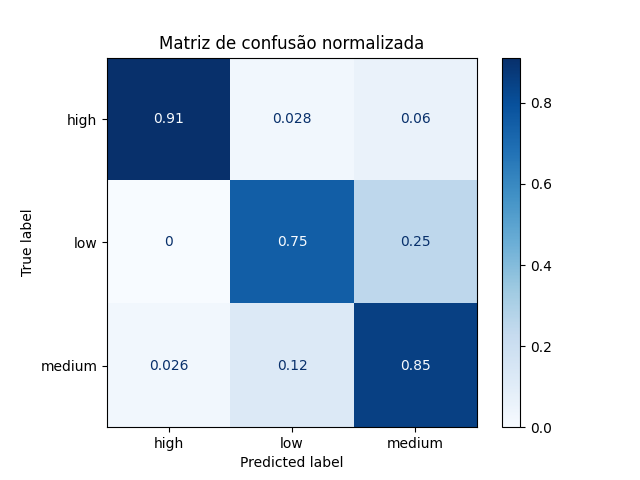
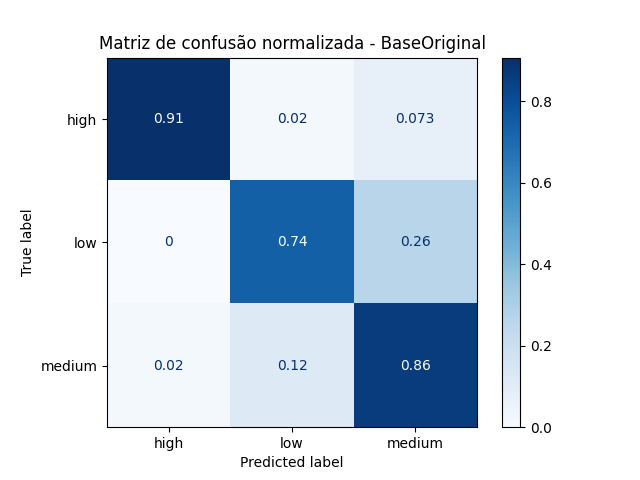
update

diff --git a/src/check_point3.py b/src/check_point3.py
@@ -41,6 +41,7 @@ from sklearn.feature_selection import SelectFromModel
 from pprint import pprint
 from pre_processing.base import BaseReduction
 from sklearn.metrics import plot_confusion_matrix
+from sklearn import tree
 
 class Supervisioned:
 
@@ -93,7 +94,91 @@ class Supervisioned:
             'BaseReduzida3': self.BaseReduzida3
         }
 
-        self.kNN()
+        #self.kNN()
+        self.ad()
+
+
+
+    def ad(self):
+        print('----------------------------------------------------------')
+        print('Início Experimento AD - 10-fold cross validation. P-> Com Poda')
+        skf = StratifiedKFold(n_splits=10)
+        
+        adParameters = []
+
+        adParameters.append((f'AD', DecisionTreeClassifier()))
+        adParameters.append((f'AD-Poda', DecisionTreeClassifier(ccp_alpha=0.01)))
+        #adParameters.append((f'AD-Poda2', DecisionTreeClassifier(ccp_alpha=0.2)))
+
+        results = {}
+        for base in self.bases:
+            print('----------------')
+            print(base, 'cross_val_score treinamento')
+            print('---------------')
+            dataset = self.bases[base]
+            feature_names = ['Speed', 'Operatorname', 'CellID', 
+				'RSRP', 'RSRQ', 'SNR', 'RSSI', 'State', 
+				'ServingCell_Distance', 'CQI']
+            class_names = ['high', 'low', 'medium']
+            array = dataset.values
+            arrLen = len(dataset.columns) - 1
+            X = array[:,0:arrLen]
+            y = array[:,arrLen]
+            results[base] = {}
+            X_train, X_test, Y_train, Y_test = train_test_split(X, y, test_size=0.20, random_state=50)
+            score = []
+            score2 = []
+            names = []
+
+            for name, model in adParameters:
+
+                cv_results = cross_val_score(model, X_train, Y_train, cv=skf, scoring='accuracy')
+                results[base][name] = {}
+                results[base][name]['mean'] = cv_results.mean()
+                results[base][name]['std'] = cv_results.std()
+                print('%s: %f (%f)' % (name, cv_results.mean(), cv_results.std()))
+                mean = results[base][name]['mean']
+                score.append(mean)
+                names.append(name)
+                score2.append(cv_results)
+            
+            sortArr = sorted(score, reverse=True)
+            fig = pyplot.figure()
+            ax = fig.add_subplot(111)
+            bp = ax.boxplot(score2, labels=names)
+            ax.set_title(f'10-fold Cross-Validation AD {base}') 
+            fig.savefig(f'figs/ad/{base}-ad.png')
+            bestValue = sortArr[0]
+
+            for name, model in adParameters:
+                #mean = results[base][name]['mean']
+                #if mean == bestValue:
+                print(f'{name} {base} com score médio de {bestValue}.')
+                clf = model.fit(X_train, Y_train)
+                predictions = model.predict(X_test)
+                fig2 = pyplot.figure(figsize=(25,20)) 
+                _ = tree.plot_tree(clf, feature_names=feature_names,  class_names=class_names, filled=True)
+                fig2.savefig(f'figs/ad/decision-tree-{base}-{name}')
+                # Evaluate predictions
+                print('Acurácia de predição:', accuracy_score(Y_test, predictions))
+                print('Matriz de confusão:')
+                print(confusion_matrix(Y_test, predictions))
+                print('Report de classificação:')
+                print(classification_report(Y_test, predictions))#, zero_division=1))
+                # Plot non-normalized confusion matrix
+                titles_options = [("Matriz de confusão sem normalização", None), ("Matriz de confusão normalizada", 'true')]
+                class_names = ['high', 'low', 'medium']
+                for title, normalize in titles_options:
+                    disp = plot_confusion_matrix(clf, X_test, Y_test, 
+                                                    display_labels=class_names, 
+                                                    cmap=pyplot.cm.Blues, 
+                                                    normalize=normalize)
+                    disp.ax_.set_title(f'{title} - {base}')
+                    disp.figure_.savefig(f'figs/ad/cm-{base}-{normalize}-{name}.png')
+                    #fig.savefig(f'figs/knn/confusion-matrix-{normalize}.png')
+
+
+
 
     def kNN(self):
         print('----------------------------------------------------------')
@@ -101,7 +186,7 @@ class Supervisioned:
         skf = StratifiedKFold(n_splits=10)
         
         knnParameters = []
-        kVar = [1, 3, 5]
+        kVar = [1, 3, 5, 7, 9, 11, 13]
         for i in kVar:
             knnParameters.append((f'kNN-{i}', KNeighborsClassifier(n_neighbors=i)))
             knnParameters.append((f'kNN-{i}-W', KNeighborsClassifier(n_neighbors=i, weights='distance')))
@@ -145,7 +230,6 @@ class Supervisioned:
             fig.savefig(f'figs/knn/{base}-kNN.png')
             bestValue = sortArr[0]
             #print(f'{base}: {bestValue} -- {sortArr}')
-            print(score2)
             for name, model in knnParameters:
                 mean = results[base][name]['mean']
                 if mean == bestValue:
@@ -167,7 +251,7 @@ class Supervisioned:
                                                         display_labels=class_names, 
                                                         cmap=pyplot.cm.Blues, 
                                                         normalize=normalize)
-                        disp.ax_.set_title(title)
+                        disp.ax_.set_title(f'{title} - {base}')
                         disp.figure_.savefig(f'figs/knn/cm-{base}-{normalize}.png')
                         #fig.savefig(f'figs/knn/confusion-matrix-{normalize}.png')
 
